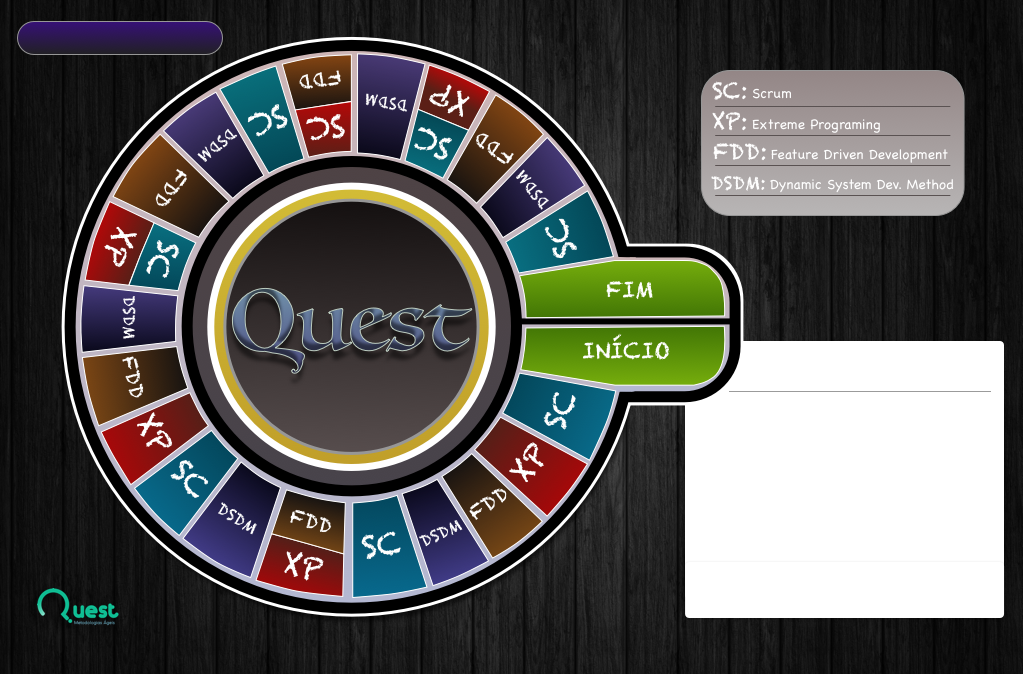
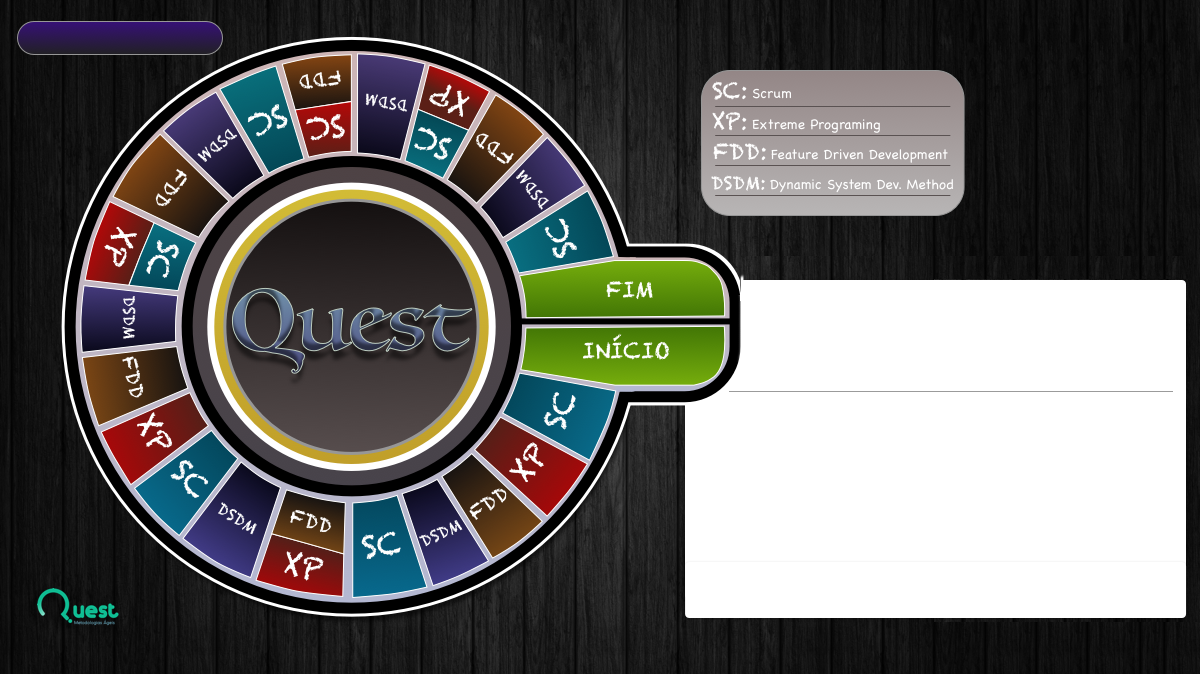
#67 Aumentar área de perguntas e adaptar plano de fundo

diff --git a/src/application/Main.java b/src/application/Main.java
@@ -54,17 +54,17 @@ public class Main extends Application {
 			
 			Group root = new Group();
 			
-			Scene scene = new Scene(root,1023,674);
+			Scene scene = new Scene(root,1200,674);
 			scene.getStylesheets().add(getClass().getResource("application.css").toExternalForm());
 
 			
-			Canvas canvas = new Canvas( 1023, 674 );
+			Canvas canvas = new Canvas( 1200, 674 );
 		    root.getChildren().addAll( canvas, btnJogar, btnJogadores );
 		    
 		    GraphicsContext gc = canvas.getGraphicsContext2D();
 		    
-		    Image backgroud = new Image( "backgroud.png" );
-		    gc.drawImage( backgroud, 0, 0, 1023, 674);	//(image, posi��o horizontal em px, posi��o vertical em px, largura em px, altura em px)
+		    Image backgroud = new Image( "background.png" );
+		    gc.drawImage( backgroud, 0, 0, 1200, 674);	//(image, posi��o horizontal em px, posi��o vertical em px, largura em px, altura em px)
 		    
 		    Image logo = new Image( "logo.png" );
 		    gc.drawImage( logo, 160, 10, 714, 500); //(image, posi��o horizontal em px, posi��o vertical em px, largura em px, altura em px)    

diff --git a/src/application/Tabuleiro.java b/src/application/Tabuleiro.java
@@ -21,15 +21,15 @@ public class Tabuleiro {
 		// TODO Auto-generated method stub
 		Group root = new Group();
 		
-		Scene scene = new Scene(root,1023,674);
+		Scene scene = new Scene(root,1200,674);
 			
-		Canvas canvas = new Canvas( 1023, 674 );
+		Canvas canvas = new Canvas( 1200, 674 );
 		root.getChildren().addAll(canvas, Questao.tema(), Tabuleiro.vez(numJogadores));
 		Jogador.jogadores_init(numJogadores, root);
 	    GraphicsContext gc = canvas.getGraphicsContext2D();
 	    
 	    Image tabuleiro = new Image( "Tabuleiro.png" );
-	    gc.drawImage( tabuleiro, 0, 0, 1023, 674);
+	    gc.drawImage( tabuleiro, 0, 0, 1200, 674);
 	    primaryStage.setTitle("Quest");
 		primaryStage.setScene(scene);
 		primaryStage.show();
